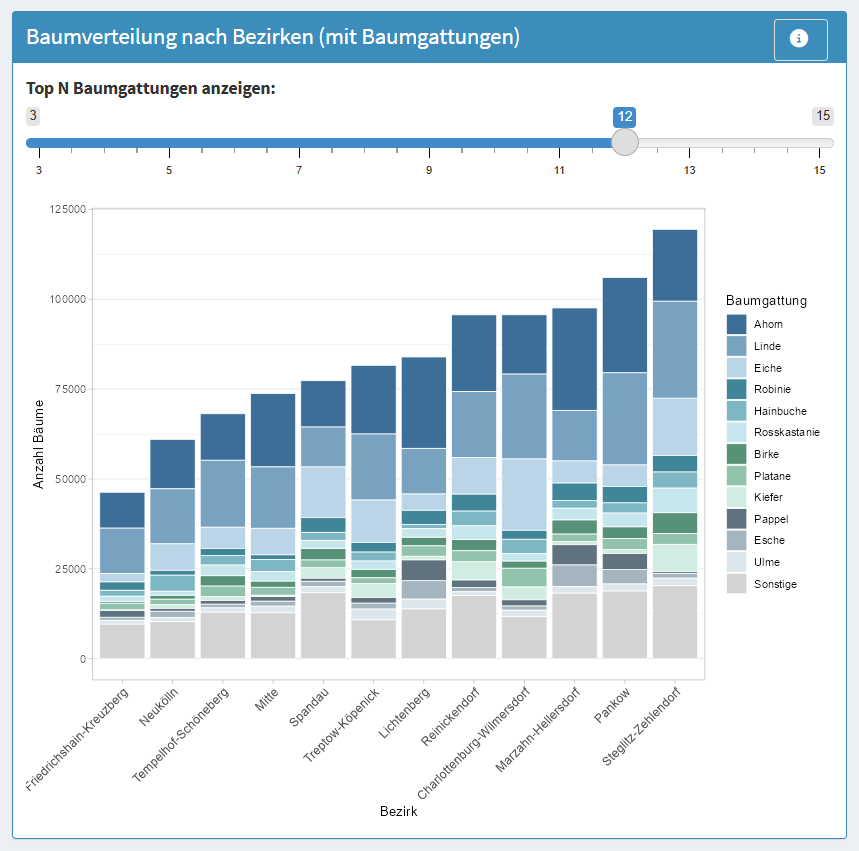
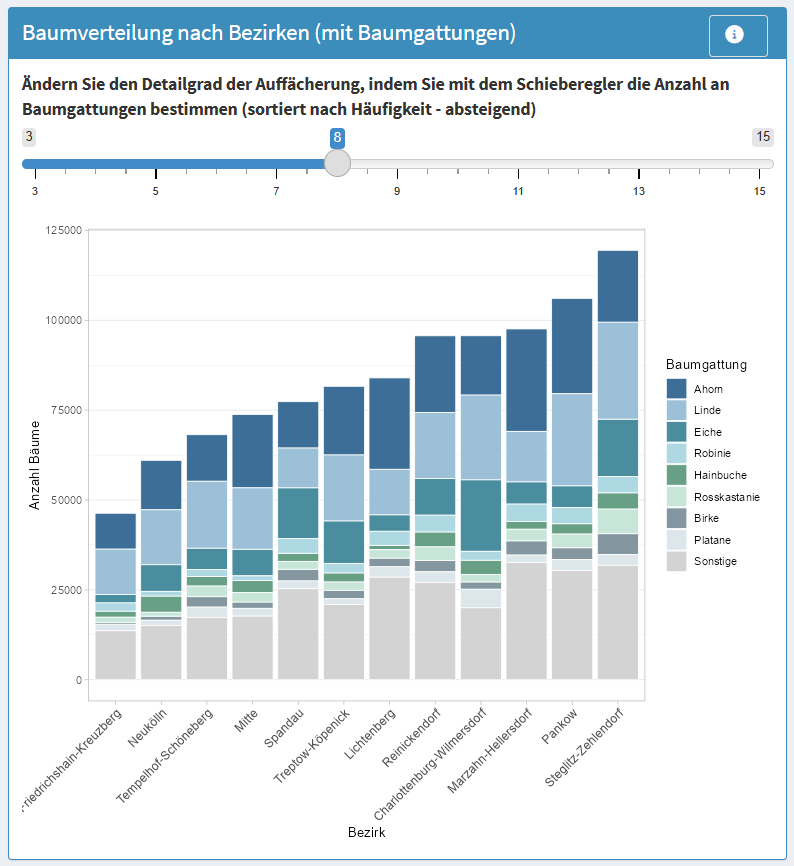
issue145 resolved

diff --git a/dashboard/Übung_Baumstatistik.md b/dashboard/Übung_Baumstatistik.md
@@ -50,10 +50,10 @@ name: Baumverteilung nach Bezirken mit Baumgattungen
 alt: Gestapeltes Balkendiagramm
 width: 600px
 ---
-Baumverteilung nach Bezirken und Baumgattungen. Die Abbildung zeigt die Verteilung der Bäume in den Berliner Bezirken, aufgeschlüsselt nach Baumgattungen. Die Anzahl der Bäume ist für jeden Bezirk als gestapeltes Balkendiagramm dargestellt, wobei die einzelnen Farbsegmente unterschiedliche Baumgattungen repräsentieren. Über einen Schieberegler kann die Anzahl der angezeigten, häufigsten Baumgattungen (Top-N) interaktiv angepasst werden, während weniger häufige Gattungen unter „Sonstige“ zusammengefasst sind. (Quelle: eigene Ausarbeitung)
+Baumverteilung nach Bezirken und Baumgattungen. Die Abbildung zeigt die Verteilung der Bäume in den Berliner Bezirken, aufgeschlüsselt nach Baumgattungen. Die Anzahl der Bäume ist für jeden Bezirk als gestapeltes Balkendiagramm dargestellt, wobei die einzelnen Farbsegmente unterschiedliche Baumgattungen repräsentieren. Über einen Schieberegler kann die Anzahl der angezeigten, häufigsten Baumgattungen interaktiv angepasst werden, während weniger häufige Gattungen unter „Sonstige“ zusammengefasst sind. (Quelle: eigene Ausarbeitung)
 ``` 
 
-Das obenstehende Diagramm ist ein Balkendiagramm, genauer gesagt ein gestapeltes Balkendiagramm, das mehrere Informationsebenen gleichzeitig vermittelt. Der zentrale Mehrwert dieser Darstellungsform liegt darin, sowohl die Gesamtanzahl der Bäume pro Bezirk als auch deren Zusammensetzung nach Gattungen in einer einzigen Visualisierung zu vereinen. Die Balkenlänge zeigt auf einen Blick, welche Bezirke den größten Baumbestand haben, während die farbigen Segmente innerhalb jedes Balkens die Artenvielfalt und deren relative Anteile offenlegen. Dies ermöglicht direkte Vergleiche zwischen Bezirken: Nutzer:innen können nicht nur erkennen, dass Bezirk A mehr Bäume hat als Bezirk B, sondern auch, ob beide eine ähnliche Gattungsverteilung aufweisen oder ob bestimmte Arten in einzelnen Bezirken dominieren. Die Anpassung über den Top-N-Schieberegler reduziert visuelle Komplexität und ermöglicht es, den Fokus je nach Fragestellung auf die häufigsten Gattungen zu legen oder eine detailliertere Aufschlüsselung zu betrachten. So macht das Balkendiagramm komplexe, mehrdimensionale Daten intuitiv erfassbar. Balkendiagramme zählen zu den etabliertesten Darstellungswerkzeugen der Datenvisualisierung - ihre breite Anwendung in dieser Fallstudie spiegelt ihre Vielseitigkeit und Lesbarkeit wider.
+Das obenstehende Diagramm ist ein Balkendiagramm, genauer gesagt ein gestapeltes Balkendiagramm, das mehrere Informationsebenen gleichzeitig vermittelt. Der zentrale Mehrwert dieser Darstellungsform liegt darin, sowohl die Gesamtanzahl der Bäume pro Bezirk als auch deren Zusammensetzung nach Gattungen in einer einzigen Visualisierung zu vereinen. Die Balkenlänge zeigt auf einen Blick, welche Bezirke den größten Baumbestand haben, während die farbigen Segmente innerhalb jedes Balkens die Artenvielfalt und deren relative Anteile offenlegen. Dies ermöglicht direkte Vergleiche zwischen Bezirken: Nutzer:innen können nicht nur erkennen, dass Bezirk A mehr Bäume hat als Bezirk B, sondern auch, ob beide eine ähnliche Gattungsverteilung aufweisen oder ob bestimmte Arten in einzelnen Bezirken dominieren. Die Anpassung über den Schieberegler reduziert visuelle Komplexität und ermöglicht es, den Fokus je nach Fragestellung auf die häufigsten Gattungen zu legen oder eine detailliertere Aufschlüsselung zu betrachten. So macht das Balkendiagramm komplexe, mehrdimensionale Daten intuitiv erfassbar. Balkendiagramme zählen zu den etabliertesten Darstellungswerkzeugen der Datenvisualisierung - ihre breite Anwendung in dieser Fallstudie spiegelt ihre Vielseitigkeit und Lesbarkeit wider.
 
 ```{figure} ../assets/Dashboard_Baumstatistik_2.png
 ---
@@ -68,11 +68,11 @@ Das obenstehende Diagramm ist ein Kreisdiagramm (auch Tortendiagramm genannt), d
 
 ```{figure} ../assets/Dashboard_Baumstatistik_3.png
 ---
-name: Top 10 gegossene Baumgattungen
+name: Die 10 meistgegossenen Baumgattungen
 alt: Balkendiagramm entsprechend Titel mit Drop-down menü für Bezirke
 width: 600px
 ---
-Top 10 gegossene Baumgattungen. Die Abbildung zeigt die Top 10 gegossenen Baumgattungen in Berlin in Form eines horizontalen Balkendiagramms. Über ein Auswahlfeld kann der betrachtete Bezirk festgelegt werden, wodurch sich die dargestellten Werte entsprechend anpassen. Die Balken repräsentieren die absolute Anzahl gegossener Bäume je Gattung, wobei die Linde mit deutlichem Abstand an erster Stelle steht, gefolgt von Ahorn (ca. 250.000) und weiteren Gattungen mit jeweils deutlich geringeren Werten. Die x-Achse zeigt die Anzahl gegossener Bäume, die y-Achse die Baumgattungen. (Quelle: eigene Ausarbeitung)
+Die 10 meistgegossenen Baumgattungen. Die Abbildung zeigt die 10 meist gegossenen Baumgattungen in Berlin in Form eines horizontalen Balkendiagramms. Über ein Auswahlfeld kann der betrachtete Bezirk festgelegt werden, wodurch sich die dargestellten Werte entsprechend anpassen. Die Balken repräsentieren die absolute Anzahl gegossener Bäume je Gattung, wobei die Linde mit deutlichem Abstand an erster Stelle steht, gefolgt von Ahorn (ca. 250.000) und weiteren Gattungen mit jeweils deutlich geringeren Werten. Die x-Achse zeigt die Anzahl gegossener Bäume, die y-Achse die Baumgattungen. (Quelle: eigene Ausarbeitung)
 ``` 
 
 ```{figure} ../assets/Dashboard_Baumstatistik_4.png
@@ -87,7 +87,7 @@ Baumdichte pro km². Die Abbildung zeigt die Baumdichte pro km² in den verschie
 ```{admonition} Was Sie beachten sollten
 :class: keypoint
 
-Nur weil bestimmte Kennzahlen in einer Analyse oder Visualisierung nicht berücksichtigt wurden, bedeutet dies nicht, dass sie für die Interpretation irrelevant sind. Für das Verständnis der oben dargestellten {numref}`Top 10 gegossene Baumgattungen` ist beispielsweise eine Information zur Häufigkeit von Baumarten (wie in {numref}`Verteilung der Baumgattungen` dargestellt) unabdingbar. Für eine korrekte Analyse der {numref}`Baumdichte pro qkm` (Baumdichte pro km²) braucht es mindestens Hinweise zur Größe der Bezirke. Darüber hinaus könnten zusätzliche Kontextinformationen, etwa zur Bevölkerungsdichte, sinnvoll sein, um die dargestellten Werte angemessen einordnen zu können.
+Nur weil bestimmte Kennzahlen in einer Analyse oder Visualisierung nicht berücksichtigt wurden, bedeutet dies nicht, dass sie für die Interpretation irrelevant sind. Für das Verständnis der oben dargestellten {numref}`Die 10 meistgegossenen Baumgattungen` ist beispielsweise eine Information zur Häufigkeit von Baumarten (wie in {numref}`Verteilung der Baumgattungen` dargestellt) unabdingbar. Für eine korrekte Analyse der {numref}`Baumdichte pro qkm` (Baumdichte pro km²) braucht es mindestens Hinweise zur Größe der Bezirke. Darüber hinaus könnten zusätzliche Kontextinformationen, etwa zur Bevölkerungsdichte, sinnvoll sein, um die dargestellten Werte angemessen einordnen zu können.
 
 Betrachten Sie Datenvisualisierungen daher stets kritisch und fragen Sie sich:
 
@@ -141,7 +141,7 @@ tabItem(
       width = 12,
       sliderInput(
         "top_n_species",
-        "Top N Baumgattungen anzeigen:",
+        "Ändern Sie den Detailgrad der Auffächerung, indem Sie mit dem Schieberegler die Anzahl an Baumgattungen bestimmen (sortiert nach Häufigkeit - absteigend)",
         min = 3,
         max = 15,
         value = 8,
@@ -187,7 +187,7 @@ tabItem(
   fluidRow(
     box(
       title = tagList(
-        "Top 10 gegossene Baumgattungen",
+        "Die 10 meistgegossenen Baumgattungen",
         div(
           actionButton("info_btn_hgb", label = "", icon = icon("info-circle")),
           style = "position: absolute; right: 15px; top: 5px;"
@@ -263,7 +263,7 @@ Das erste Diagramm soll zeigen, wie viele Bäume in jedem Bezirk stehen und welc
 - `n_gen <- input$top_n_species` – speichert den Slider-Wert in einer Variable
 - `filter(!is.na(gattung_deutsch))` – entfernt Bäume ohne Gattungsangabe
 - `count(gattung_deutsch, sort = TRUE)` – zählt jede Gattung und sortiert absteigend
-- `head(n_gen)` – wählt die Top-N häufigsten Gattungen (gesteuert durch die Variable `n_gen`)
+- `head(n_gen)` – wählt die häufigsten Gattungen (gesteuert durch die Variable `n_gen`)
 - `pull(gattung_deutsch)` – extrahiert die Gattungsnamen als Vektor
 
 Diese Gattungsliste verwenden Sie später, um alle anderen Gattungen als "Sonstige" zu kennzeichnen.
@@ -294,7 +294,7 @@ Jetzt bereiten Sie die Daten so auf, dass für jeden Bezirk gezählt wird, wie v
 
 - `filter(!is.na(bezirk))` – entfernt Bäume ohne Bezirkszuordnung
 - `mutate(gattung_grouped = ...)` – gruppiert Gattungen:
-  - Wenn die Gattung zu den Top-N gehört → behalte den Namen
+  - Wenn die Gattung zu der ausgewählten Anzahl gehört → behalte den Namen
   - Ansonsten → kennzeichne als "Sonstige"
 - `group_by(bezirk, gattung_grouped)` – gruppiert nach Bezirk und Gattungsgruppe
 - `summarise(count = n())` – zählt Bäume pro Gruppe
@@ -424,7 +424,7 @@ Das Kreisdiagramm soll die prozentuale Zusammensetzung der Baumgattungen zeigen,
       HTML("
       <p>Diese Grafik zeigt die <strong>prozentuale Verteilung der Baumgattungen</strong>.</p>
       <ul>
-        <li>Zeigt die Top 10 häufigsten Baumgattungen (z.B. LINDE, AHORN, EICHE)</li>
+        <li>Zeigt die 10 meistgegossenen Baumgattungen (z.B. LINDE, AHORN, EICHE)</li>
         <li>Alle anderen Gattungen werden als 'Sonstige' zusammengefasst</li>
         <li>Kann auf einzelne Bezirke gefiltert werden</li>
         <li>Hilft zu verstehen, welche Gattungen in Berlin dominieren</li>
@@ -449,7 +449,7 @@ Das Kreisdiagramm soll die prozentuale Zusammensetzung der Baumgattungen zeigen,
 **Datenaufbereitung:**
 
 - `count(gattung_deutsch, sort = TRUE)` – zählt jede Gattung
-- `row_number() <= 10` – markiert die Top-10-Gattungen, alle anderen werden zu "Sonstige"
+- `row_number() <= 10` – markiert die 10 meistgegossenen Gattungen, alle anderen werden zu "Sonstige"
 - `group_by(gattung_grouped)` – fasst gleiche Gruppen zusammen
 - `mutate(percentage = ...)` – berechnet prozentuale Anteile
 
@@ -549,13 +549,13 @@ Um Bezirke fair vergleichen zu können, berechnen Sie die Baumdichte, also wie v
 Diese Normalisierung ermöglicht faire Vergleiche: Ein kleiner, urbaner Bezirk kann trotz weniger Bäume eine höhere Dichte haben als ein großer, ländlicher Bezirk.
 ````
 
-### Top 10 gegossene Baumgattungen
+### Die 10 meistgegossenen Baumgattungen
 
 Diese Visualisierung zeigt, welche Baumgattungen am häufigsten gegossen wurden. Das hilft zu verstehen, ob bestimmte Gattungen mehr Aufmerksamkeit erhalten, möglicherweise weil sie häufiger vorkommen oder als besonders pflegebedürftig wahrgenommen werden.
 
 ````{dropdown} Code
 ```r
-  # 4. Top 10 gegossene Baumgattungen
+  # 4. Die 10 meistgegossenen Baumgattungen
   output$top_watered_species <- renderPlot({
     req(input$sidebarMenu == "engagement")
     filtered_data <- df_merged %>%
@@ -568,7 +568,7 @@ Diese Visualisierung zeigt, welche Baumgattungen am häufigsten gegossen wurden.
     
     df_agg <- filtered_data %>%
       filter(!is.na(gattung_deutsch)) %>%   
-      group_by(gattung_deutsch) %>%
+      group_by(gattunTop 10g_deutsch) %>%
       summarise(
         count = n(),
         total_water = sum(bewaesserungsmenge_in_liter, na.rm = TRUE)
@@ -596,7 +596,7 @@ Diese Visualisierung zeigt, welche Baumgattungen am häufigsten gegossen wurden.
   # Info button
   observeEvent(input$info_btn_hgb, {
     showModal(modalDialog(
-      title = "Information: Top 10 gegossene Baumgattungen",
+      title = "Information: Die 10 meistgegossenen Baumgattungen",
       HTML("
       <p>Diese Grafik zeigt die <strong>am häufigsten gegossenen Baumgattungen</strong>.</p>
       <ul>
@@ -621,14 +621,14 @@ Diese Visualisierung zeigt, welche Baumgattungen am häufigsten gegossen wurden.
 - `filter(!is.na(bewaesserungsmenge_in_liter))` – behalte nur Bäume, die tatsächlich bewässert wurden
 - Optional: Filterung nach Bezirk, falls ausgewählt
 
-**Top-10-Gattungen ermitteln:**
+**Die 10 meistgegossenen Baumgattungen ermitteln:**
 
 - `group_by(gattung_deutsch)` – gruppiert nach Gattung
 - `summarise(count = n(), total_water = sum(...))` – berechnet zwei Kennzahlen:
   - `count` – wie viele Bäume dieser Gattung gegossen wurden
   - `total_water` – wie viel Wasser insgesamt auf diese Gattung gegossen wurde
 - `arrange(desc(count))` – sortiert absteigend nach Häufigkeit
-- `head(10)` – wählt die Top 10 aus
+- `head(10)` – wählt die 10 meistgegossenen Baumgattungen
 
 **Horizontales Balkendiagramm:**
 
@@ -695,7 +695,7 @@ ui <- dashboardPage(
             width = 12,
             sliderInput(
               "top_n_species",
-              "Top N Baumgattungen anzeigen:",
+              "Ändern Sie den Detailgrad der Auffächerung, indem Sie mit dem Schieberegler die Anzahl an Baumgattungen bestimmen (sortiert nach Häufigkeit - absteigend)",
               min = 3,
               max = 15,
               value = 8,
@@ -741,7 +741,7 @@ ui <- dashboardPage(
         fluidRow(
           box(
             title = tagList(
-              "Top 10 gegossene Baumgattungen",
+              "Die 10 meistgegossenen Baumgattungen",
               div(
                 actionButton("info_btn_hgb", label = "", icon = icon("info-circle")),
                 style = "position: absolute; right: 15px; top: 5px;"
@@ -874,7 +874,7 @@ server <- function(input, output, session) {
       HTML("
       <p>Diese Grafik zeigt die <strong>prozentuale Verteilung der Baumgattungen</strong>.</p>
       <ul>
-        <li>Zeigt die Top 10 häufigsten Baumgattungen (z.B. LINDE, AHORN, EICHE)</li>
+        <li>Zeigt die 10 meistgegossenen Baumgattungen (z.B. LINDE, AHORN, EICHE)</li>
         <li>Hilft zu verstehen, welche Gattungen in Berlin dominieren</li>
       </ul>
     "),
@@ -938,7 +938,7 @@ server <- function(input, output, session) {
     ))
   })
 
-  # 4. Top 10 gegossene Baumgattungen
+  # 4. Die 10 meistgegossenen Baumgattungen
   output$top_watered_species <- renderPlot({
     req(input$sidebarMenu == "engagement")
     filtered_data <- df_merged %>%
@@ -978,7 +978,7 @@ server <- function(input, output, session) {
 
   observeEvent(input$info_btn_hgb, {
     showModal(modalDialog(
-      title = "Information: Top 10 gegossene Baumgattungen",
+      title = "Information: Die 10 meistgegossenen Baumgattungen",
       HTML("
       <p>Diese Grafik zeigt die <strong>am häufigsten gegossenen Baumgattungen</strong>.</p>
       <ul>